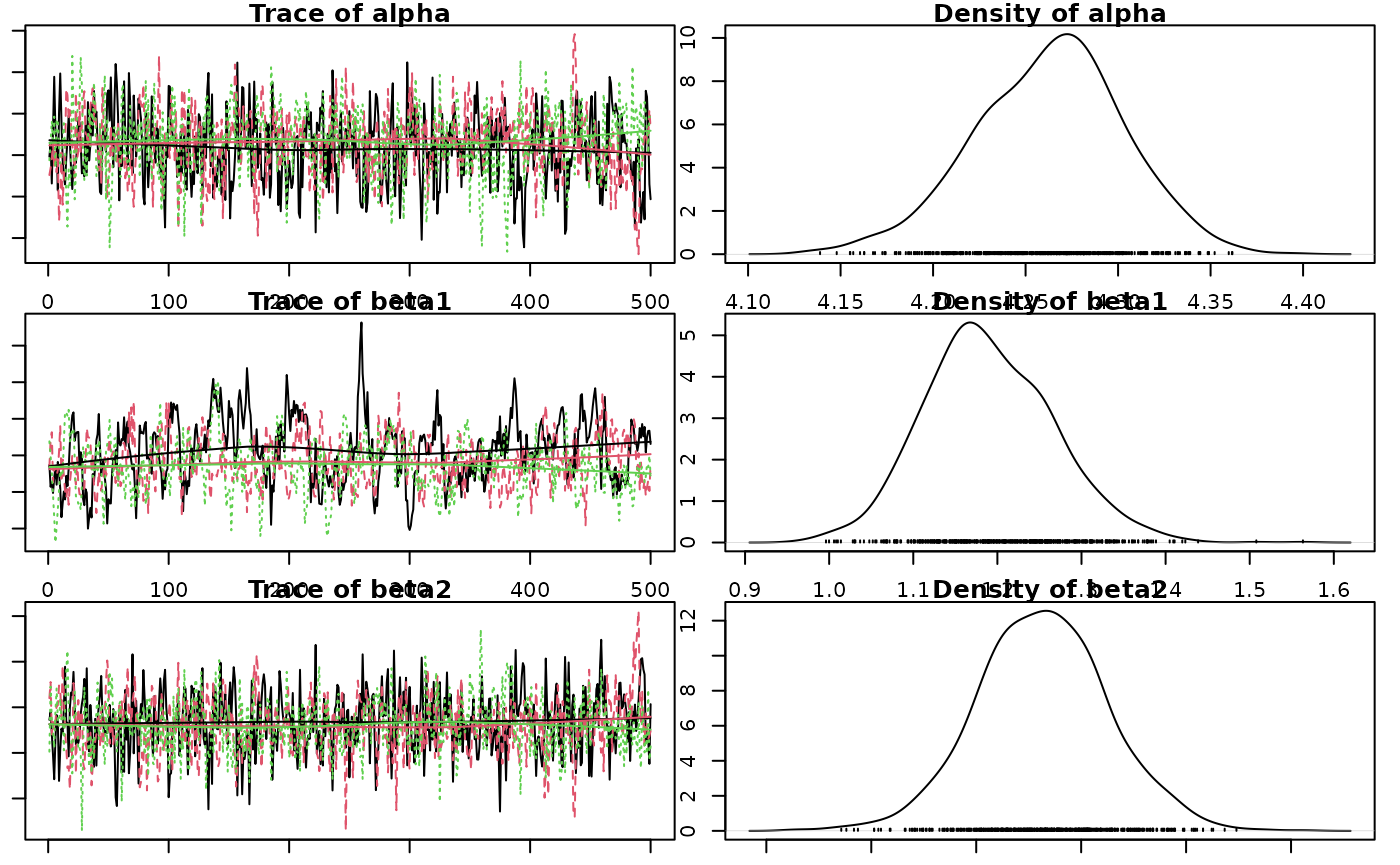
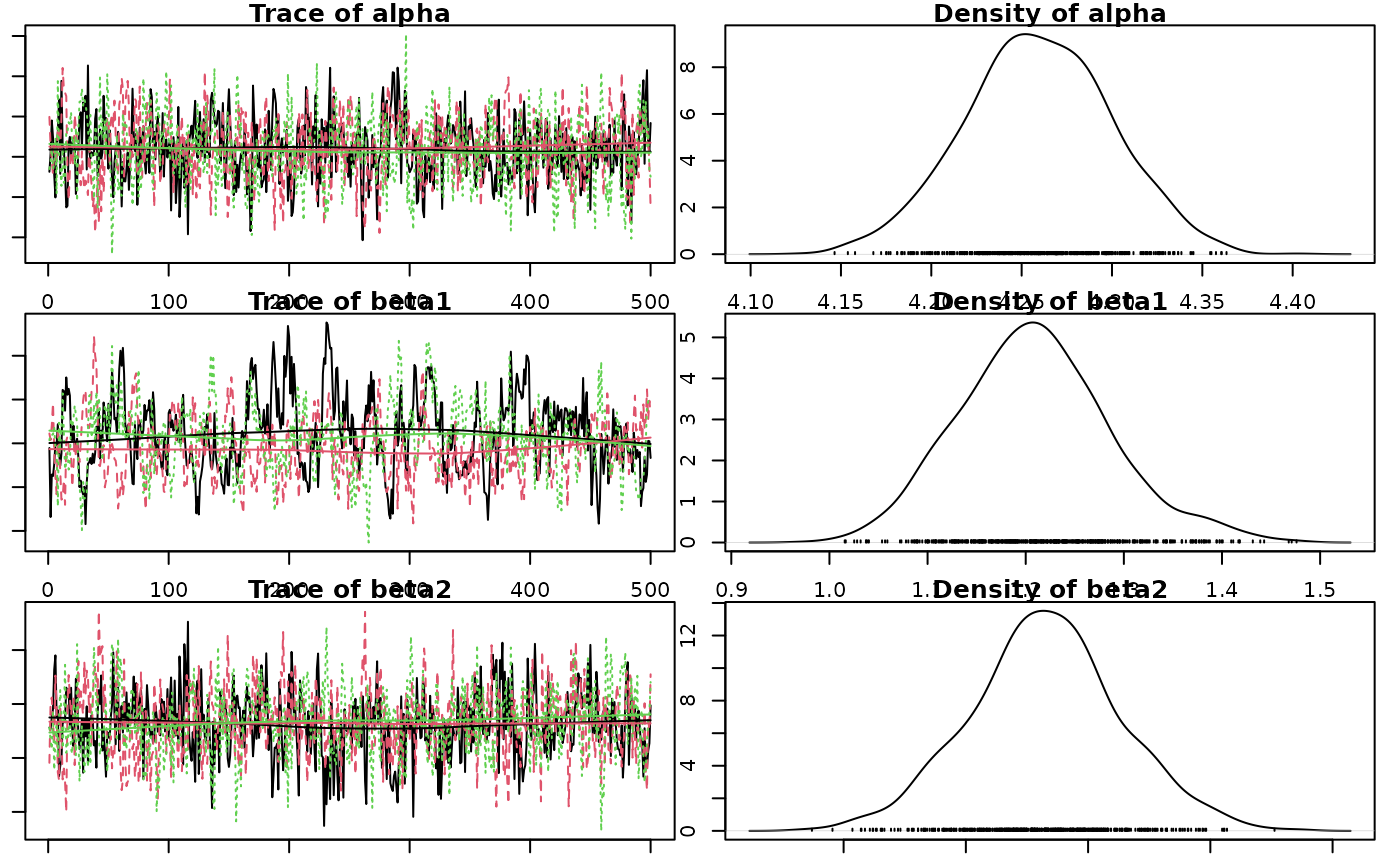
Built site for jmbr@0.0.0.9135: ccaec8b

diff --git a/articles/jmbr.html b/articles/jmbr.html
@@ -285,14 +285,14 @@ value and discarding all other values.</p>
 <span><span class="co">#&gt; <span style="color: #949494;"># A tibble: 1 × 8</span></span></span>
 <span><span class="co">#&gt;       n     K nchains niters nthin   ess  rhat converged</span></span>
 <span><span class="co">#&gt;   <span style="color: #949494; font-style: italic;">&lt;int&gt;</span> <span style="color: #949494; font-style: italic;">&lt;int&gt;</span>   <span style="color: #949494; font-style: italic;">&lt;int&gt;</span>  <span style="color: #949494; font-style: italic;">&lt;int&gt;</span> <span style="color: #949494; font-style: italic;">&lt;int&gt;</span> <span style="color: #949494; font-style: italic;">&lt;int&gt;</span> <span style="color: #949494; font-style: italic;">&lt;dbl&gt;</span> <span style="color: #949494; font-style: italic;">&lt;lgl&gt;</span>    </span></span>
-<span><span class="co">#&gt; <span style="color: #BCBCBC;">1</span>    40     6       3    500    10   255  1.04 TRUE</span></span>
+<span><span class="co">#&gt; <span style="color: #BCBCBC;">1</span>    40     6       3    500    10   231  1.02 TRUE</span></span>
 <span><span class="co">#&gt; Warning in value[[3L]](cond): beep() could not play the sound due to the following error:</span></span>
 <span><span class="co">#&gt; Error in play.default(x, rate, ...): no audio drivers are available</span></span>
 <span><span class="va">analysis</span> <span class="op">&lt;-</span> <span class="fu"><a href="https://rdrr.io/pkg/embr/man/reanalyse.html" class="external-link">reanalyse</a></span><span class="op">(</span><span class="va">analysis</span><span class="op">)</span></span>
 <span><span class="co">#&gt; <span style="color: #949494;"># A tibble: 1 × 8</span></span></span>
 <span><span class="co">#&gt;       n     K nchains niters nthin   ess  rhat converged</span></span>
 <span><span class="co">#&gt;   <span style="color: #949494; font-style: italic;">&lt;int&gt;</span> <span style="color: #949494; font-style: italic;">&lt;int&gt;</span>   <span style="color: #949494; font-style: italic;">&lt;int&gt;</span>  <span style="color: #949494; font-style: italic;">&lt;int&gt;</span> <span style="color: #949494; font-style: italic;">&lt;int&gt;</span> <span style="color: #949494; font-style: italic;">&lt;int&gt;</span> <span style="color: #949494; font-style: italic;">&lt;dbl&gt;</span> <span style="color: #949494; font-style: italic;">&lt;lgl&gt;</span>    </span></span>
-<span><span class="co">#&gt; <span style="color: #BCBCBC;">1</span>    40     6       3    500    10   255  1.04 TRUE</span></span>
+<span><span class="co">#&gt; <span style="color: #BCBCBC;">1</span>    40     6       3    500    10   231  1.02 TRUE</span></span>
 <span><span class="co">#&gt; Warning in value[[3L]](cond): beep() could not play the sound due to the following error:</span></span>
 <span><span class="co">#&gt; Error in play.default(x, rate, ...): no audio drivers are available</span></span></code></pre></div>
 <p><strong>Analysis Table:</strong></p>
@@ -342,12 +342,12 @@ between- and within-chain estimates for model parameters.
 <span><span class="co">#&gt; <span style="color: #949494;"># A tibble: 6 × 7</span></span></span>
 <span><span class="co">#&gt;   term        estimate     sd  zscore   lower   upper   pvalue</span></span>
 <span><span class="co">#&gt;   <span style="color: #949494; font-style: italic;">&lt;term&gt;</span>         <span style="color: #949494; font-style: italic;">&lt;dbl&gt;</span>  <span style="color: #949494; font-style: italic;">&lt;dbl&gt;</span>   <span style="color: #949494; font-style: italic;">&lt;dbl&gt;</span>   <span style="color: #949494; font-style: italic;">&lt;dbl&gt;</span>   <span style="color: #949494; font-style: italic;">&lt;dbl&gt;</span>    <span style="color: #949494; font-style: italic;">&lt;dbl&gt;</span></span></span>
-<span><span class="co">#&gt; <span style="color: #BCBCBC;">1</span> alpha         4.27   0.040<span style="text-decoration: underline;">5</span> 105.     4.18    4.34   0.000<span style="text-decoration: underline;">666</span></span></span>
-<span><span class="co">#&gt; <span style="color: #BCBCBC;">2</span> beta1         1.18   0.076<span style="text-decoration: underline;">9</span>  15.5    1.05    1.35   0.000<span style="text-decoration: underline;">666</span></span></span>
-<span><span class="co">#&gt; <span style="color: #BCBCBC;">3</span> beta2        -<span style="color: #BB0000;">0.018</span><span style="color: #BB0000; text-decoration: underline;">6</span> 0.031<span style="text-decoration: underline;">3</span>  -<span style="color: #BB0000;">0.595</span> -<span style="color: #BB0000;">0.079</span><span style="color: #BB0000; text-decoration: underline;">4</span>  0.042<span style="text-decoration: underline;">8</span> 0.548   </span></span>
-<span><span class="co">#&gt; <span style="color: #BCBCBC;">4</span> beta3        -<span style="color: #BB0000;">0.268</span>  0.039<span style="text-decoration: underline;">1</span>  -<span style="color: #BB0000;">6.91</span>  -<span style="color: #BB0000;">0.352</span>  -<span style="color: #BB0000;">0.197</span>  0.000<span style="text-decoration: underline;">666</span></span></span>
-<span><span class="co">#&gt; <span style="color: #BCBCBC;">5</span> log_sAnnual  -<span style="color: #BB0000;">2.23</span>   0.345   -<span style="color: #BB0000;">6.60</span>  -<span style="color: #BB0000;">3.12</span>   -<span style="color: #BB0000;">1.71</span>   0.000<span style="text-decoration: underline;">666</span></span></span>
-<span><span class="co">#&gt; <span style="color: #BCBCBC;">6</span> sAnnual       0.108  0.033<span style="text-decoration: underline;">1</span>   3.28   0.044<span style="text-decoration: underline;">1</span>  0.181  0.000<span style="text-decoration: underline;">666</span></span></span></code></pre></div>
+<span><span class="co">#&gt; <span style="color: #BCBCBC;">1</span> alpha         4.26   0.040<span style="text-decoration: underline;">4</span> 105.     4.18    4.34   0.000<span style="text-decoration: underline;">666</span></span></span>
+<span><span class="co">#&gt; <span style="color: #BCBCBC;">2</span> beta1         1.21   0.077<span style="text-decoration: underline;">6</span>  15.6    1.07    1.38   0.000<span style="text-decoration: underline;">666</span></span></span>
+<span><span class="co">#&gt; <span style="color: #BCBCBC;">3</span> beta2        -<span style="color: #BB0000;">0.017</span><span style="color: #BB0000; text-decoration: underline;">5</span> 0.030<span style="text-decoration: underline;">9</span>  -<span style="color: #BB0000;">0.565</span> -<span style="color: #BB0000;">0.078</span><span style="color: #BB0000; text-decoration: underline;">2</span>  0.045<span style="text-decoration: underline;">6</span> 0.536   </span></span>
+<span><span class="co">#&gt; <span style="color: #BCBCBC;">4</span> beta3        -<span style="color: #BB0000;">0.280</span>  0.040<span style="text-decoration: underline;">1</span>  -<span style="color: #BB0000;">7.01</span>  -<span style="color: #BB0000;">0.365</span>  -<span style="color: #BB0000;">0.209</span>  0.000<span style="text-decoration: underline;">666</span></span></span>
+<span><span class="co">#&gt; <span style="color: #BCBCBC;">5</span> log_sAnnual  -<span style="color: #BB0000;">2.21</span>   0.337   -<span style="color: #BB0000;">6.66</span>  -<span style="color: #BB0000;">3.00</span>   -<span style="color: #BB0000;">1.72</span>   0.000<span style="text-decoration: underline;">666</span></span></span>
+<span><span class="co">#&gt; <span style="color: #BCBCBC;">6</span> sAnnual       0.109  0.032<span style="text-decoration: underline;">3</span>   3.46   0.049<span style="text-decoration: underline;">9</span>  0.179  0.000<span style="text-decoration: underline;">666</span></span></span></code></pre></div>
 <p>The estimate is the <strong>median</strong> by default.</p>
 <p>The zscore is <span class="math inline">mean / sd</span>.</p>
 <div class="sourceCode" id="cb12"><pre class="downlit sourceCode r">
@@ -355,12 +355,12 @@ between- and within-chain estimates for model parameters.
 <span><span class="co">#&gt; <span style="color: #949494;"># A tibble: 6 × 5</span></span></span>
 <span><span class="co">#&gt;   term        estimate   lower   upper svalue</span></span>
 <span><span class="co">#&gt;   <span style="color: #949494; font-style: italic;">&lt;term&gt;</span>         <span style="color: #949494; font-style: italic;">&lt;dbl&gt;</span>   <span style="color: #949494; font-style: italic;">&lt;dbl&gt;</span>   <span style="color: #949494; font-style: italic;">&lt;dbl&gt;</span>  <span style="color: #949494; font-style: italic;">&lt;dbl&gt;</span></span></span>
-<span><span class="co">#&gt; <span style="color: #BCBCBC;">1</span> alpha         4.27    4.18    4.34   10.6  </span></span>
-<span><span class="co">#&gt; <span style="color: #BCBCBC;">2</span> beta1         1.18    1.05    1.35   10.6  </span></span>
-<span><span class="co">#&gt; <span style="color: #BCBCBC;">3</span> beta2        -<span style="color: #BB0000;">0.018</span><span style="color: #BB0000; text-decoration: underline;">6</span> -<span style="color: #BB0000;">0.079</span><span style="color: #BB0000; text-decoration: underline;">4</span>  0.042<span style="text-decoration: underline;">8</span>  0.867</span></span>
-<span><span class="co">#&gt; <span style="color: #BCBCBC;">4</span> beta3        -<span style="color: #BB0000;">0.268</span>  -<span style="color: #BB0000;">0.352</span>  -<span style="color: #BB0000;">0.197</span>  10.6  </span></span>
-<span><span class="co">#&gt; <span style="color: #BCBCBC;">5</span> log_sAnnual  -<span style="color: #BB0000;">2.23</span>   -<span style="color: #BB0000;">3.12</span>   -<span style="color: #BB0000;">1.71</span>   10.6  </span></span>
-<span><span class="co">#&gt; <span style="color: #BCBCBC;">6</span> sAnnual       0.108   0.044<span style="text-decoration: underline;">1</span>  0.181  10.6</span></span></code></pre></div>
+<span><span class="co">#&gt; <span style="color: #BCBCBC;">1</span> alpha         4.26    4.18    4.34   10.6  </span></span>
+<span><span class="co">#&gt; <span style="color: #BCBCBC;">2</span> beta1         1.21    1.07    1.38   10.6  </span></span>
+<span><span class="co">#&gt; <span style="color: #BCBCBC;">3</span> beta2        -<span style="color: #BB0000;">0.017</span><span style="color: #BB0000; text-decoration: underline;">5</span> -<span style="color: #BB0000;">0.078</span><span style="color: #BB0000; text-decoration: underline;">2</span>  0.045<span style="text-decoration: underline;">6</span>  0.899</span></span>
+<span><span class="co">#&gt; <span style="color: #BCBCBC;">4</span> beta3        -<span style="color: #BB0000;">0.280</span>  -<span style="color: #BB0000;">0.365</span>  -<span style="color: #BB0000;">0.209</span>  10.6  </span></span>
+<span><span class="co">#&gt; <span style="color: #BCBCBC;">5</span> log_sAnnual  -<span style="color: #BB0000;">2.21</span>   -<span style="color: #BB0000;">3.00</span>   -<span style="color: #BB0000;">1.72</span>   10.6  </span></span>
+<span><span class="co">#&gt; <span style="color: #BCBCBC;">6</span> sAnnual       0.109   0.049<span style="text-decoration: underline;">9</span>  0.179  10.6</span></span></code></pre></div>
 <p>The s-value is the <strong>suprisal</strong> value, which is a
 measure of directionality with respect to zero.</p>
 <p>The s-value is zero (unsurprising) when <em>p-value</em> = 1.0 and

diff --git a/articles/jmbr.md b/articles/jmbr.md
@@ -214,14 +214,14 @@ analysis <- analyse(model, data = data)
 #> # A tibble: 1 × 8
 #>       n     K nchains niters nthin   ess  rhat converged
 #>   <int> <int>   <int>  <int> <int> <int> <dbl> <lgl>    
-#> 1    40     6       3    500    10   255  1.04 TRUE
+#> 1    40     6       3    500    10   231  1.02 TRUE
 #> Warning in value[[3L]](cond): beep() could not play the sound due to the following error:
 #> Error in play.default(x, rate, ...): no audio drivers are available
 analysis <- reanalyse(analysis)
 #> # A tibble: 1 × 8
 #>       n     K nchains niters nthin   ess  rhat converged
 #>   <int> <int>   <int>  <int> <int> <int> <dbl> <lgl>    
-#> 1    40     6       3    500    10   255  1.04 TRUE
+#> 1    40     6       3    500    10   231  1.02 TRUE
 #> Warning in value[[3L]](cond): beep() could not play the sound due to the following error:
 #> Error in play.default(x, rate, ...): no audio drivers are available
 ```
@@ -265,12 +265,12 @@ coef(analysis)
 #> # A tibble: 6 × 7
 #>   term        estimate     sd  zscore   lower   upper   pvalue
 #>   <term>         <dbl>  <dbl>   <dbl>   <dbl>   <dbl>    <dbl>
-#> 1 alpha         4.27   0.0405 105.     4.18    4.34   0.000666
-#> 2 beta1         1.18   0.0769  15.5    1.05    1.35   0.000666
-#> 3 beta2        -0.0186 0.0313  -0.595 -0.0794  0.0428 0.548   
-#> 4 beta3        -0.268  0.0391  -6.91  -0.352  -0.197  0.000666
-#> 5 log_sAnnual  -2.23   0.345   -6.60  -3.12   -1.71   0.000666
-#> 6 sAnnual       0.108  0.0331   3.28   0.0441  0.181  0.000666
+#> 1 alpha         4.26   0.0404 105.     4.18    4.34   0.000666
+#> 2 beta1         1.21   0.0776  15.6    1.07    1.38   0.000666
+#> 3 beta2        -0.0175 0.0309  -0.565 -0.0782  0.0456 0.536   
+#> 4 beta3        -0.280  0.0401  -7.01  -0.365  -0.209  0.000666
+#> 5 log_sAnnual  -2.21   0.337   -6.66  -3.00   -1.72   0.000666
+#> 6 sAnnual       0.109  0.0323   3.46   0.0499  0.179  0.000666
 ```
 
 The estimate is the **median** by default.
@@ -282,12 +282,12 @@ coef(analysis, simplify = TRUE)
 #> # A tibble: 6 × 5
 #>   term        estimate   lower   upper svalue
 #>   <term>         <dbl>   <dbl>   <dbl>  <dbl>
-#> 1 alpha         4.27    4.18    4.34   10.6  
-#> 2 beta1         1.18    1.05    1.35   10.6  
-#> 3 beta2        -0.0186 -0.0794  0.0428  0.867
-#> 4 beta3        -0.268  -0.352  -0.197  10.6  
-#> 5 log_sAnnual  -2.23   -3.12   -1.71   10.6  
-#> 6 sAnnual       0.108   0.0441  0.181  10.6
+#> 1 alpha         4.26    4.18    4.34   10.6  
+#> 2 beta1         1.21    1.07    1.38   10.6  
+#> 3 beta2        -0.0175 -0.0782  0.0456  0.899
+#> 4 beta3        -0.280  -0.365  -0.209  10.6  
+#> 5 log_sAnnual  -2.21   -3.00   -1.72   10.6  
+#> 6 sAnnual       0.109   0.0499  0.179  10.6
 ```
 
 The s-value is the **suprisal** value, which is a measure of
